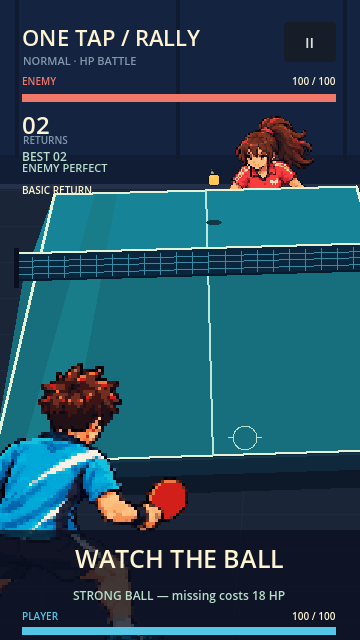
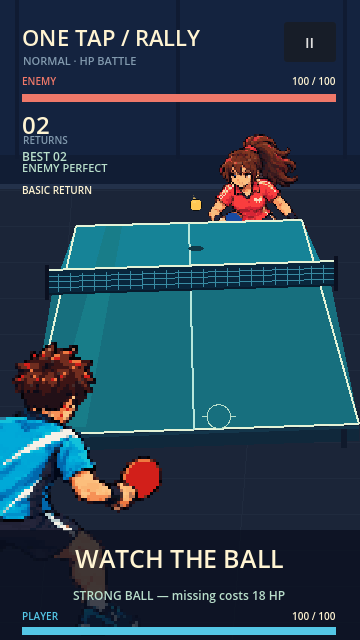
Shrink court and prepare layered character rendering

Changed region(s): [[0.0, 0.1562, 1.0, 1.0], [0.0, 0.9062, 0.0306, 0.9375]]

diff --git a/docs/GRAPHICS_CONTRACT.md b/docs/GRAPHICS_CONTRACT.md
@@ -6,22 +6,23 @@
 
 - 고정 시점: 플레이어 등 뒤에서 약간 높은 2D 화면. 내부 캔버스 360×640, 세로 9:16, Nearest. 카메라 이동은 없다.
 - 탁구대 좌표: `x=-1` 왼쪽 가장자리, `x=1` 오른쪽 가장자리, `depth=0` 상대 쪽 먼 가장자리, `depth=1` 플레이어 쪽 가까운 가장자리. `height`는 화면에서 위로 올릴 픽셀 수다.
-- 투영의 **단일 기준값**은 [`assets/table/layout.json`](../assets/table/layout.json)이다. 실제 공·그림자·접촉점은 `CourtView.project_point()`로 투영하고, 탁구대·네트 PNG는 `tools/assets/build_court.py`가 같은 값으로 생성한다. 원근을 바꿀 때 둘을 함께 재생성·검사한다.
+- 투영의 **단일 기준값**은 [`assets/table/layout.json`](../assets/table/layout.json)이다. 실제 공·그림자·접촉점과 탁구대·네트의 윤곽은 모두 `CourtView.project_point()`를 사용한다. `court_scale`과 `court_offset`이 가까운 구도의 크기/위치를 조절한다. `tools/assets/build_court.py`의 탁구대·네트 PNG는 이전 래스터 시안이며 현재 런타임 윤곽에는 사용하지 않는다.
 - 양쪽 라켓의 논리 접촉점은 패턴 Resource의 `start_point`/`hit_point`다. 미술 작업에서 타격점을 옮겨 타이밍을 맞추지 않는다. 모든 패턴의 목표점은 동일한 플레이어 위치로 수렴한다.
 
 ## 2. 화면 가림 순서
 
-뒤에서 앞으로: **배경 → 상대 전신 → 탁구대 본체/상판 → 먼 쪽 공 → 네트 → 플레이어 전신 → 가까운 쪽 공 → 타격·피격 효과 → UI**. 탁구대의 불투명 상판이 상대 하반신을 실제 원근 경계에서 가린다. 2026-10-14에 이전의 고정 `y=208` 상대 잘라내기를 제거했다. 화면 Y좌표에 맞춘 임의의 캐릭터 잘라내기를 새로 추가하지 않는다.
+뒤에서 앞으로: **배경 → 상대 `body_back` → 탁구대 본체/상판 → 상대 `arm_front` → 먼 쪽 공 → 네트 → 플레이어 `body_back` → 플레이어 `arm_front` → 가까운 쪽 공 → 타격·피격 효과 → UI**. 탁구대의 불투명 상판이 상대 하반신을 실제 원근 경계에서 가린다. 2026-10-14에 이전의 고정 `y=208` 상대 잘라내기를 제거했다. 화면 Y좌표에 맞춘 임의의 캐릭터 잘라내기를 새로 추가하지 않는다.
 
-이 순서는 현재 상대가 **탁구대 뒤에 서는** 구도에 맞다. 앞으로 상대의 손/라켓이 탁구대 앞까지 뻗는 그림을 원한다면, 그 포즈는 `body_back`과 `arm_front`처럼 깊이 레이어를 나눈 별도 에셋이 필요하다. 지금의 단일 PNG 시트를 탁구대 위에 통째로 올리면 다시 몸이 상판을 뚫고 보인다. 배경·상판·네트·캐릭터를 하나의 완성 화면 PNG로 합치지 않는다.
+이 순서는 현재 상대가 **탁구대 뒤에 서는** 구도에 맞다. 현재 플레이어/상대의 기존 Idle·Swing·Miss 시트는 전신이 한 장에 합쳐져 있어 `frames.tres`를 `body_back`의 임시 대체로 사용한다. 제작자가 `body_back.tres`와 `arm_front.tres`를 제공하면 동일 게임 시각/프레임 번호로 두 레이어를 그린다. 앞팔·라켓만 상판 앞으로 나오고 몸/다리는 뒤에 남는다. 지금의 전신 PNG를 통째로 상판 앞에 올리면 다시 몸이 상판을 뚫고 보인다. 배경·상판·네트·캐릭터를 하나의 완성 화면 PNG로 합치지 않는다.
 
 ## 3. 교체 가능한 에셋 단위
 
 | 종류 | 현재 계약 | 교체 시 지켜야 할 점 |
 |---|---|---|
 | 플레이어/상대 | 역할별 128×128 투명 프레임; Idle 4, Swing 6, Miss 4; SpriteFrames와 `manifest.json` | 같은 역할·시점, 동일 발 pivot과 라켓 접촉점, 프레임 간 발 위치. 새 캐릭터는 별도 폴더에 같은 구조를 두고 `layout.json`의 `player_character` 또는 `enemy_character` ID를 바꾼다. |
-| 탁구대 | 360×640 투명 `table_main.png` | 상판의 먼/가까운 경계가 `layout.json` 투영과 일치해야 한다. 상대를 가릴 부분은 불투명하게 유지한다. |
-| 네트 | 360×640 투명 `table_net.png` | `net_depth`와 양쪽 포스트 위치를 일치시킨다. 먼 공 뒤/가까운 공 앞의 기준이다. |
+| 몸/앞팔 레이어 | 선택적 `body_back.tres` 및 `arm_front.tres` | 두 시트 모두 128×128, 상태별 프레임 수·FPS·pivot·포즈 번호가 일치해야 한다. 앞팔에는 상판 위로 나올 손/라켓만 남기고 몸·다리를 넣지 않는다. 실제 분리 아트는 아직 없다. |
+| 탁구대 | `layout.json`과 `CourtView._draw_table()`의 투영 도형 | 상판의 먼/가까운 경계가 공 투영과 자동 일치한다. 이전 `table_main.png`는 참고용이며 새 외형은 동일 윤곽을 유지하는 방식으로 제작한다. |
+| 네트 | `layout.json`과 `CourtView._draw_net()`의 투영 도형 | `net_depth`와 양쪽 포스트 위치를 일치시킨다. 먼 공 뒤/가까운 공 앞의 기준이다. 이전 `table_net.png`는 참고용이다. |
 | 공·그림자 | 중심 pivot의 12×12/16×6 투명 PNG | 공의 중심은 궤적 좌표에, 그림자는 같은 x/depth의 지면 좌표에 둔다. 강한 공 색상 변형에도 실루엣이 읽혀야 한다. |
 | 배경 | 360×640 불투명 PNG | 선수/공보다 낮은 대비, 주요 UI와 접촉점 주변은 단순하게 유지한다. |
 | UI·효과 | 별도 CanvasLayer/표시 효과 | 게임 규칙을 직접 변경하지 않고 전투 이벤트만 받아 표시한다. |
@@ -30,13 +31,15 @@
 
 ## 4. 새 그래픽 투입 절차
 
-1. 같은 역할의 기존 에셋을 복사해 **한 종류만** 교체한다. 새 캐릭터 폴더에서는 `frames.tres`의 PNG 경로도 새 파일로 갱신한다. 원본 생성 파일과 게임용 PNG를 구분하고, ID·크기·프레임 수·pivot·라켓 접촉점·알파 여부를 `manifest.json` 또는 제작 기록에 남긴다.
+1. 같은 역할의 기존 에셋을 복사해 **한 종류만** 교체한다. 새 캐릭터 폴더에서는 `frames.tres`의 PNG 경로도 새 파일로 갱신한다. 몸/팔을 분리할 때는 `body_back.tres`와 `arm_front.tres`를 함께 넣고 두 시트의 모든 프레임 순서·길이를 맞춘다. 하나만 있거나 규격이 다르면 기존 전신 시트로 돌아간다. 원본 생성 파일과 게임용 PNG를 구분하고, ID·크기·프레임 수·pivot·라켓 접촉점·알파 여부를 `manifest.json` 또는 제작 기록에 남긴다.
 2. 이미지의 머리/발/라켓 끝이 셀 경계에 잘리지 않는지, 프레임 사이 기준점이 흔들리지 않는지 확인한다. 배경과 탁구대는 레이어 분리와 원근 경계를 확인한다.
 3. Godot import 후 `tests/run_tests.gd`, `tests/character_render_smoke.gd`, `tests/phase3_render_smoke.gd`로 5패턴×3난이도·Idle/Swing/Miss·탁구대 가림·접촉을 확인한다. 정면/후면 시점이 섞이거나 네트 앞뒤가 뒤집히면 통합하지 않는다.
 4. 실제 iPhone에서 구도·도트 밀도·글자·공 대비를 확인한다. 이 단계는 아직 미검증이며 사용자가 나중에 실행해 피드백할 예정이다.
 
 ## 5. 현재 뼈대와 확장 시점
 
-이미 있는 뼈대는 `layout.json`(투영·캐릭터 슬롯), 패턴 Resource(논리 궤적/타격점), 캐릭터 `manifest.json`+`frames.tres`(프레임/기준점), 분리된 배경·탁구대·네트·공 PNG, BattleUI(CanvasLayer)다. 이번에는 화면 가림 순서와 검증을 바로잡았다.
+이미 있는 뼈대는 `layout.json`(투영·크기·캐릭터 슬롯), 패턴 Resource(논리 궤적/타격점), 캐릭터 `manifest.json`+`frames.tres`(프레임/기준점), 선택적 `body_back.tres`/`arm_front.tres`, 분리된 배경·공 PNG와 투영식 탁구대·네트, BattleUI(CanvasLayer)다. 상대의 몸과 팔을 서로 다른 깊이에서 그리는 경로까지 검증했다.
 
-아직 **캐릭터 선택/스킨 카탈로그, 앞·뒤로 나뉜 팔 애니메이션, 최종 UI/폰트**는 없다. 새 그래픽 종류를 대량으로 만들기 전에 어떤 변형이 필요한지 정하고, 그 변형이 현재 계약에서 교체만으로 가능한지 확인한다. 여러 선수나 테이블 테마를 실제 게임에서 선택하도록 만들 때는 역할/ID를 선언하는 카탈로그를 추가한다. 현재 두 역할만을 위해 추상적인 범용 에셋 시스템을 먼저 만들 필요는 없다.
+아직 **캐릭터 선택/스킨 카탈로그, 실제 분리된 몸·팔 그림, 최종 UI/폰트**는 없다. 현재 6프레임 전신 스윙의 팔 동작은 축소된 탁구대 위에서 보이지만 관절별 독립 움직임은 아니다. 새 그래픽 종류를 대량으로 만들기 전에 어떤 변형이 필요한지 정하고, 그 변형이 현재 계약에서 교체만으로 가능한지 확인한다. 여러 선수나 테이블 테마를 실제 게임에서 선택하도록 만들 때는 역할/ID를 선언하는 카탈로그를 추가한다.
+
+[축소된 탁구대와 대기 화면](previews/rear-court-idle.png) / [상대 Swing 화면](previews/opponent-swing.png). 두 캡처는 가상 OpenGL의 프로토타입 화면이며 실제 분리형 몸·팔 아트를 표시한 것은 아니다.

diff --git a/docs/ROADMAP.md b/docs/ROADMAP.md
@@ -105,3 +105,8 @@ Phase 1~5 프로토타입 구현과 자동 검증 완료. 사용자의 직접 10
 - 직접 합성한 WAV 효과음 9종, 사운드 ON/OFF와 로컬 설정 저장을 연결했다.
 - 엔진 검사 2,636개 및 Phase 3/5 가상 OpenGL 화면 검사 통과. 입력 가정 기반 20시드×3난이도×3실력 경기 길이 시뮬레이션을 기록했다. 일반 입력 모델 중앙값은 약 37~44초로 목표 1~3분보다 짧다. 직접 플레이 데이터가 없으므로 난이도/피해량은 초기값으로 남기고 검수 때 조정한다.
 - 사람의 재미·사운드 볼륨·iPhone 가독성과 실제 경기 길이는 아직 검수하지 않았다. [검증 기록](PHASE5_VALIDATION.md).
+
+## 2026-10-14 구도 재조정 및 레이어 준비
+- 사용자 피드백에 따라 탁구대 화면 투영을 가로 0.75배/세로 0.78배로 줄이고, 상대 스윙과 상체가 더 보이도록 원경 라켓·공 시작 높이를 조정했다. 탁구대·네트는 정해진 투영 좌표에서 그리므로 크기 변경 시 잘린 PNG 경계가 생기지 않는다.
+- 몸 뒤/앞팔 레이어의 프레임 동기화와 깊이 순서를 구현하고, 임시 앞팔 레이어가 탁구대 위에 표시되는 화면 테스트를 통과했다. **실제 분리형 몸·팔 그림은 제작 전**이며 현재 6프레임 전신 스윙을 사용한다.
+- 엔진 2,640검사 및 캐릭터/Phase 3/Phase 5 가상 화면 검사 통과. 새 구도와 팔 동작의 재미·iPhone 크기는 직접 검수 대기. [그래픽 계약](GRAPHICS_CONTRACT.md).

diff --git a/docs/PHASE4_COURT_VALIDATION.md b/docs/PHASE4_COURT_VALIDATION.md
@@ -16,3 +16,5 @@
 ## 2026-10-14 가림 순서 보정
 
 사용자 검토에서 상대가 탁구대 상판과 겹쳐 보이는 문제를 확인했다. 원인은 상대 전신을 상판 위에 그린 뒤 화면 `y=208`에서 잘라낸 고정 클립이었다. 상대를 탁구대 뒤에 먼저 그리고 상판이 실제 원근 경계에서 하반신을 가리도록 순서를 바꿨다. 이전 캡처의 (250,205) 픽셀에는 상대 스프라이트가 있었고, 수정 후에는 탁구대 픽셀과 일치한다. 캐릭터 렌더 검사에 이 조건을 추가했다. 새 그래픽 제작 기준은 [그래픽 계약](GRAPHICS_CONTRACT.md)에 정리했다. Godot 4.6.3에서 엔진 2,637검사 및 캐릭터/Phase 3/Phase 5 화면 검사 통과. iPhone 수동 미감 검수는 남아 있다.
+
+같은 날 후속 피드백으로 탁구대를 더 작게 다시 배치했다. 현재 탁구대·네트는 이전 PNG를 표시하지 않고 공과 동일한 투영에서 런타임 도형으로 그린다. 공 시작 높이를 올려 상대의 머리·몸통·스윙이 더 보이도록 했다. [새 대기 화면](previews/rear-court-idle.png) / [상대 Swing](previews/opponent-swing.png). 기존 PNG 연결과 픽셀 좌표는 위 Phase 4 당시 기록이다. 별도 몸·팔 시트는 추후 제작할 수 있도록 렌더 경로를 마련했으며 실제 PNG는 아직 없다.

diff --git a/docs/GAME_DESIGN.md b/docs/GAME_DESIGN.md
@@ -84,6 +84,8 @@
 Perfect: 강한 스윙·도트 충격파·공 잔상·짧은 히트 스톱·판정 텍스트·강한 타격음. 피격: HP 변화·캐릭터 반응·피해량·도트 효과·사운드. 마지막 공격 강조와 결과 화면.
 현재 구현: 빠른 스매시 패턴과 AI Perfect 반격이 강한 공이며, 플레이어 Perfect 리턴도 상대 Miss 시 강한 피해를 준다. 별도 게이지/필살기 버튼은 없다. Perfect 접촉 화면만 45ms 정지하며 판정용 게임 시계는 정지하지 않는다. 실제 체감은 사용자 검수 대상이다.
 
+구도 보정: 상대의 상체·양팔 스윙을 더 보이도록 탁구대 화면 크기를 줄이고 공의 원경 시작 높이를 높였다. 상대 몸은 상판 뒤, 향후 제작할 앞팔/라켓 레이어는 상판 앞에 그린다. 현재는 기존 전신 Swing 6프레임을 사용하며 관절별 분리형 그래픽은 아직 없다. 같은 목표 타이밍과 피해 규칙을 유지한다.
+
 ## 15. 전투 상태머신
 BATTLE_START → RALLY_START → ENEMY_ATTACK → PLAYER_TIMING → PLAYER_RETURN → ENEMY_DEFENSE.
 수비 성공이면 ENEMY_ATTACK으로 순환. 플레이어 또는 AI Miss이면 RALLY_RESULT. 생존 시 RALLY_START, HP 0이면 BATTLE_END.

diff --git a/docs/USER_QA.md b/docs/USER_QA.md
@@ -61,6 +61,8 @@ Godot 4.6.3 stable에서 project.godot를 Import → F5. 기본 보통 난이도
 - [ ] 네트 앞뒤로 지나는 공과 접촉 링이 눈에 잘 띄는지
 - [ ] 하단 HP/판정 문구가 전경 플레이어와 겹쳐도 읽히는지
 - [ ] 5패턴과 3난이도에서 원근·공 속도의 체감이 자연스러운지
+- [ ] 줄인 탁구대가 여전히 공·네트·타격 위치를 읽기 쉬운지, 상대 머리·상체·양팔·라켓 움직임이 충분히 보이는지
+- [ ] 상대의 라켓 접촉이 높아진 공 시작점과 자연스럽게 맞는지
 
 ## Phase 5 프로토타입 연출 수동 검수 대기
 - [ ] Perfect 접촉의 45ms 표시 정지·충격파·잔상이 조작 리듬을 방해하지 않는지
